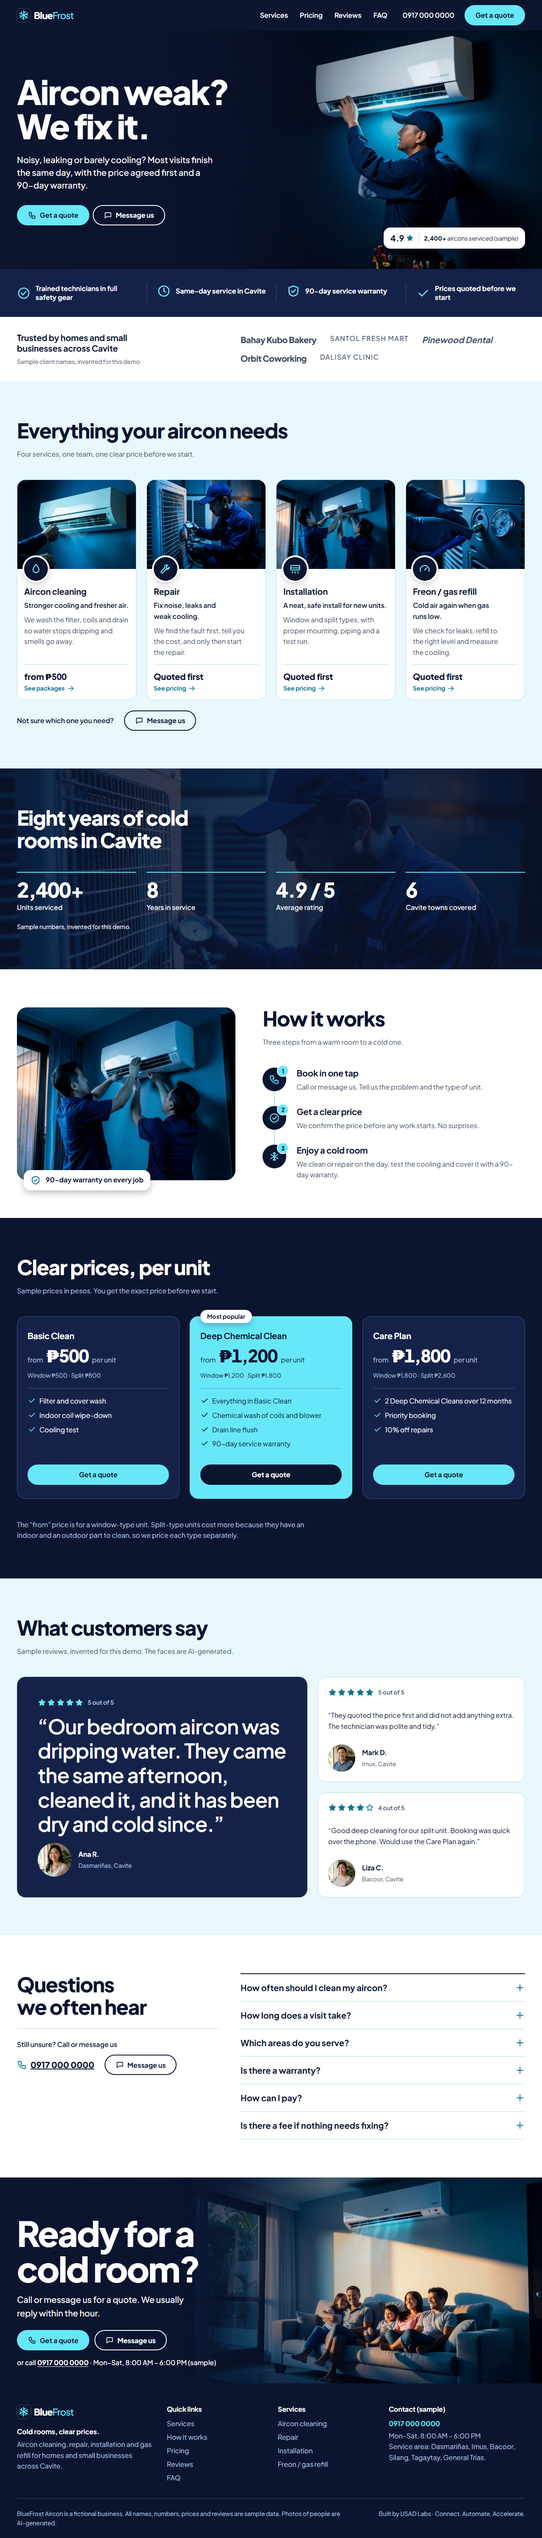
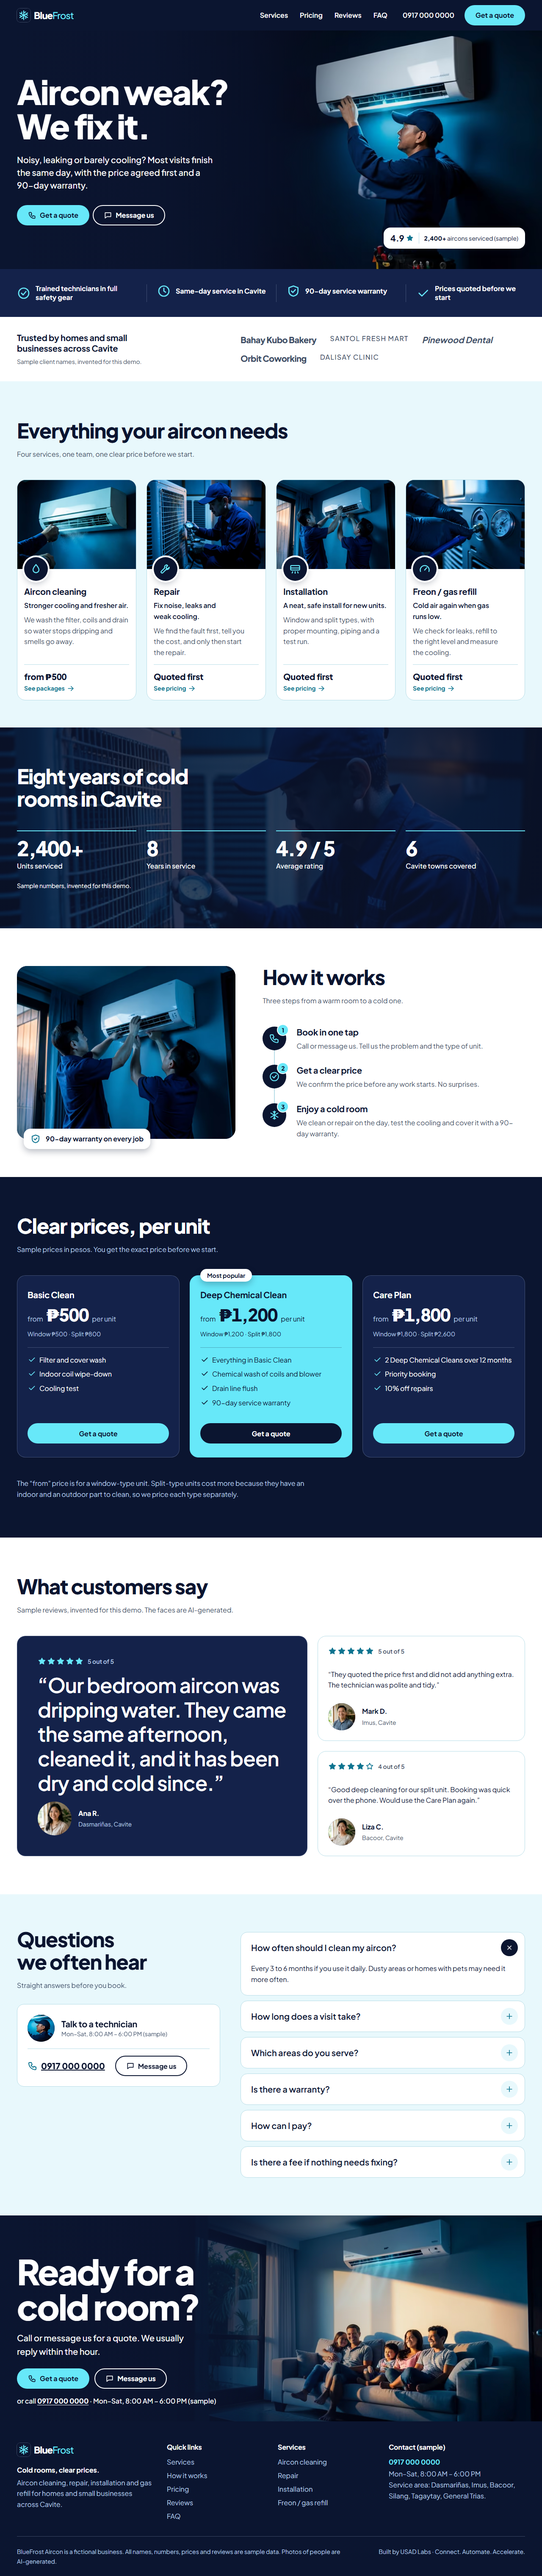
feat: FAQ cards with technician help card, services row removed

diff --git a/tests/content.spec.ts b/tests/content.spec.ts
@@ -68,23 +68,31 @@ test('3 reviews with a readable rating', async ({ page }) => {
   }
 });
 
-test('5-6 FAQ items open with the keyboard', async ({ page }) => {
+test('5-6 FAQ items: first starts open and closes with Enter; the rest start closed and open with Enter/Space', async ({ page }) => {
   const items = page.locator('#faq details');
   const n = await items.count();
   expect(n).toBeGreaterThanOrEqual(5);
   expect(n).toBeLessThanOrEqual(6);
+  // The first card starts open (Faq.astro: details open={i === 0}).
   const first = items.first();
-  await first.locator('summary').focus();
-  await expect(first).not.toHaveAttribute('open', '');
-  await page.keyboard.press('Enter');
   await expect(first).toHaveAttribute('open', '');
   await expect(first.locator('p')).toBeVisible();
+  await first.locator('summary').focus();
+  await page.keyboard.press('Enter');
+  await expect(first).not.toHaveAttribute('open', '');
+  await expect(first.locator('p')).toBeHidden();
+  // Every other card starts closed.
+  for (let i = 1; i < n; i++) await expect(items.nth(i)).not.toHaveAttribute('open', '');
   const second = items.nth(1);
   await second.locator('summary').focus();
   await page.keyboard.press('Space');
   await expect(second).toHaveAttribute('open', '');
   await page.keyboard.press('Enter');
   await expect(second).not.toHaveAttribute('open', '');
+  const third = items.nth(2);
+  await third.locator('summary').focus();
+  await page.keyboard.press('Enter');
+  await expect(third).toHaveAttribute('open', '');
 });
 
 test('footer has the fictional-business notice and USAD credit', async ({ page }) => {

diff --git a/tests/layout.spec.ts b/tests/layout.spec.ts
@@ -45,6 +45,13 @@ for (const width of WIDTHS) {
       expect(sw).toBeLessThanOrEqual(cw);
     });
 
+    test('FAQ: heading top within 8px of the first card top (900px and up)', async ({ page }) => {
+      test.skip(width < 900, 'the FAQ heading and list sit side by side from 900px');
+      const [heading] = await boxes(page, '#faq-title');
+      const [card] = await boxes(page, '#faq details');
+      expect(Math.abs(heading.top - card.top), `heading ${heading.top} vs first card ${card.top}`).toBeLessThanOrEqual(8);
+    });
+
     test('pricing: quote buttons line up and no orphan row', async ({ page }) => {
       const cards = await boxes(page, '#pricing ul.grid > li');
       expect(cards).toHaveLength(3);

diff --git a/TEAM.md b/TEAM.md
@@ -110,5 +110,9 @@ Plugins: ponytail is on for every subagent (its SubagentStart hook, mode `full`)
 | 2026-11-03 | 04-build | Bolt | Antixor-style header (nav, phone, CTA ≥ 1000px) and 4-column footer (`--footer-pad`), how-it-works id, scroll-margin. Found and fixed an invisible header phone link (navy on navy). Gate 5/5. ponytail: on | 94,987 (30 tool uses, 6.4 min) |
 | 2026-11-03 | 04-build | Bolt | Removed the redundant cyan strip; its contact moved into the CTA band; footer 2-column under 600px (360px footer 1103 → 867px). 9 tests failed only from the strip removal (handed to Bugsy). Lead set CTA buttons side by side ≥ 600px (one CSS line in a Bolt file, logged). ponytail: on | 80,957 (31 tool uses, 5.9 min) |
 | 2026-11-03 | 05-qa | Bugsy | Tests updated for the strip removal; widths now 10 (360–1920 incl. 900/1100/1366); 8 CTA button-row tests; 75 pass, no flakes over 3 repeats; lhci 100/100/100/100; 0 bugs. ponytail: on | 61,489 (24 tool uses, 8 min) |
+| 2026-11-03 | 04b-look | user | **User correction (5th):** services "Not sure" row not needed; FAQ plain and heading not aligned. Picked: remove the row; FAQ cards + "Talk to a technician" help card | n/a |
+| 2026-11-03 | 04-build | Bolt | Row removed; FAQ cards (first open), help card, heading aligned to the first card (`text-box: trim-start cap`); Reviews → band-white so it doesn't merge with the FAQ. 1 test failed only from the intended open-by-default item. ponytail: on | 104,100 (48 tool uses, 6.2 min) |
+| 2026-11-03 | 04b-look | lead | Look check OK at 1440/390. Re-cropped the help-card avatar from the hero photo (the old crop showed mostly cap) | n/a |
+| 2026-11-03 | 05-qa | Bugsy (haiku) | Final-touch re-check PASS, 0 bugs: FAQ test updated (first open), new heading-alignment test (proven to fail on a 20px offset), 82 pass, 246 over 3 repeats; lhci 100/100/100/100. ponytail: on | see notification |
 
 **Token tracking:** subagent tokens come from each task notification. Lead tokens: run `/caveman-stats` or `explain-usage` at the end of each session and paste the total here.
